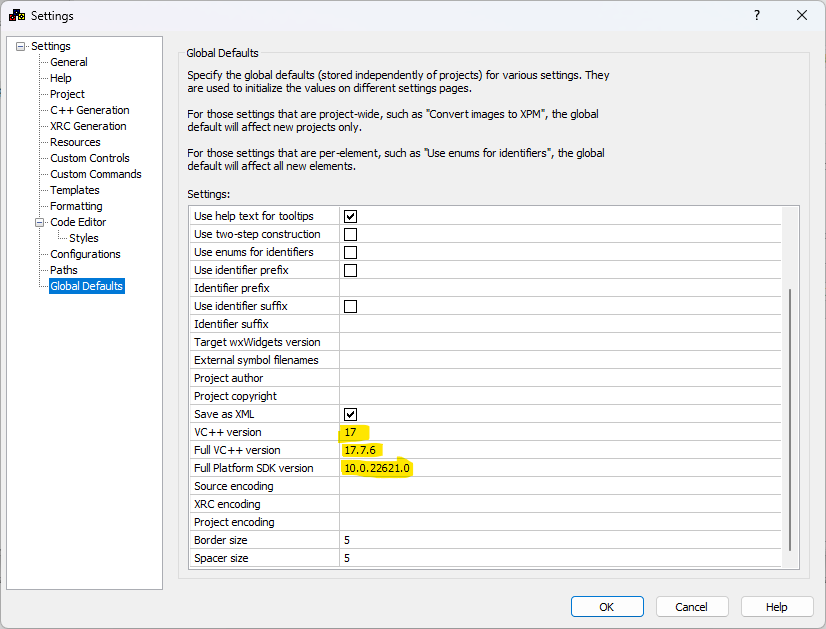
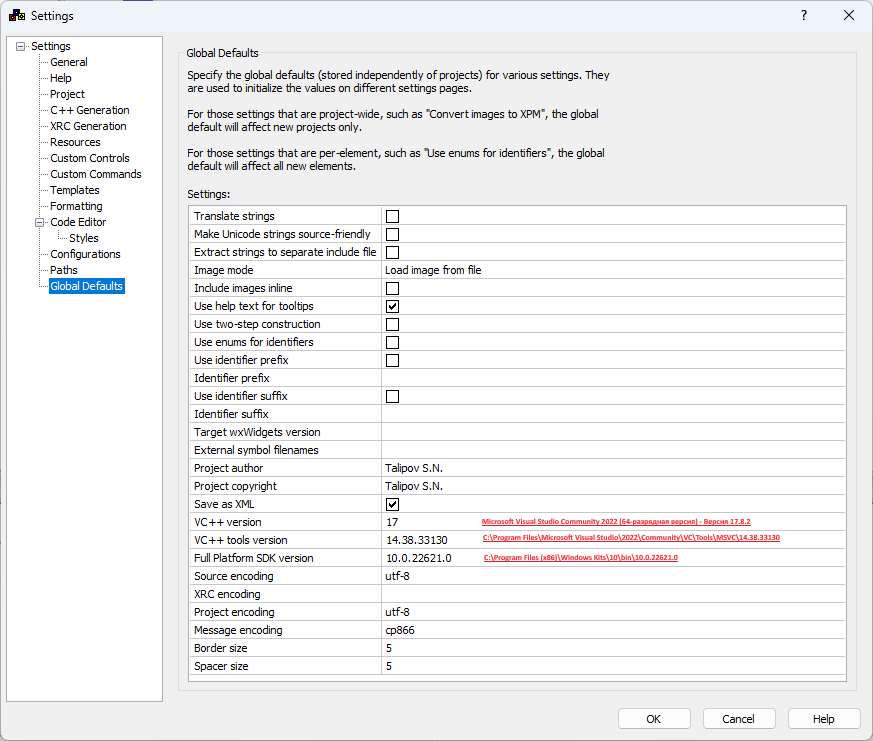
update

diff --git a/README.md b/README.md
@@ -13,23 +13,17 @@
 
 **MSBUILDDIR:** C:\Program Files\Microsoft Visual Studio\2022\Community\MSBuild\Current\Bin
 
-**MSVCDIR:**
-
-* *Для сборки wxWidgets:* C:\Program Files\Microsoft Visual Studio\2022\Community\VC\Tools\MSVC\14.37.32822
-
-* *Для сборки и запуска программ:* C:\Program Files\Microsoft Visual Studio\2022\Community
+**MSVCDIR:** C:\Program Files\Microsoft Visual Studio\2022\Community
 
 **PLATFORMSDK:** C:\Program Files (x86)\Windows Kits\10
 
-
 ![srcreenshot](screenshot4.png)
 
+**VC++ version:** 17 <<-- Microsoft Visual Studio Community 2022 (64-разрядная версия) - Версия 17.8.2
 
-**VC++ version:** 17
+**VC++ tools version:** 14.38.33130 <<-- C:\Program Files\Microsoft Visual Studio\2022\Community\VC\Tools\MSVC\14.38.33130
 
-**VC++ tools version:** 17.7.6
-
-**Full Platform SDK version**: 10.0.22621.0
+**Full Platform SDK version**: 10.0.22621.0 <<-- C:\Program Files (x86)\Windows Kits\10\bin\10.0.22621.0
 
 **Message encoding:** cp866
 
@@ -44,6 +38,10 @@
 ![srcreenshot](screenshot7.png)
 
 **Extra compile flags:** %AUTO% /utf-8
+
+*Чтобы компилировался проект в режиме консоли в конфигурации каждой сборки укажите:*
+
+**GUI mode:** Console
 
 ![srcreenshot](screenshot5.png)
 
@@ -72,6 +70,8 @@ void MainForm::OnButtonClick(wxCommandEvent& event)
 ```
 
 ![srcreenshot](vcxproj_fix.png)
+
+http://www.anthemion.co.uk/dialogblocks/DialogBlocks-5.18-beta3-Setup.exe
 
 http://www.anthemion.co.uk/dialogblocks/
 
